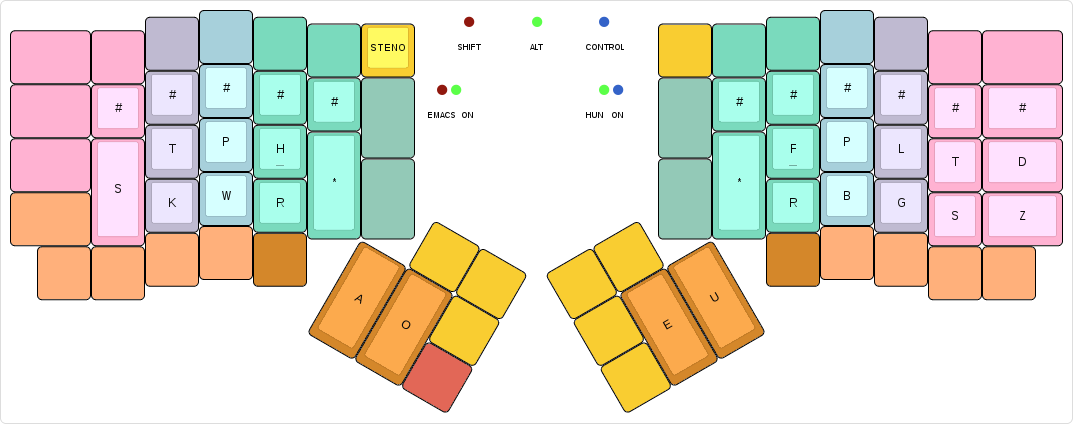
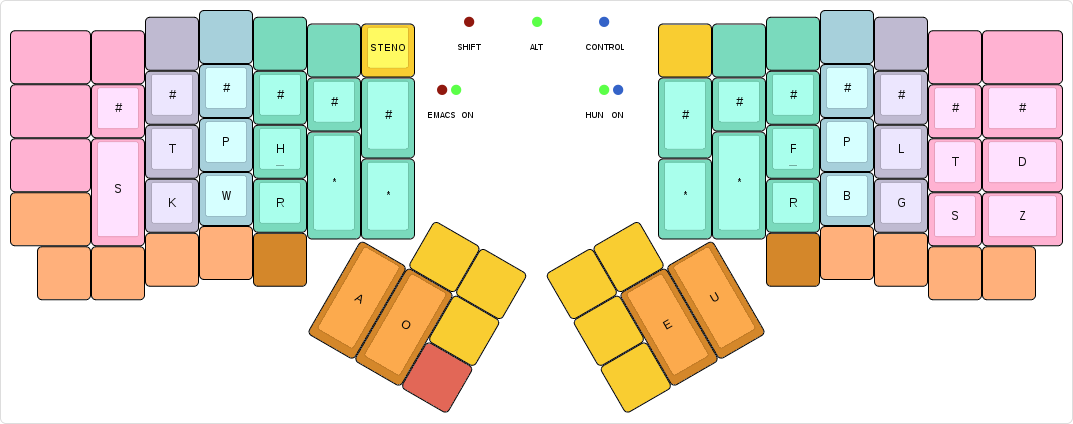
STENO: Add a few more # and * keys
Fixes #43.

Changed region(s): [[0.6151, 0.184, 0.6766, 0.5825], [0.3383, 0.184, 0.3998, 0.5825]]

diff --git a/keymap.c b/keymap.c
@@ -412,10 +412,10 @@ const uint16_t PROGMEM keymaps[][MATRIX_ROWS][MATRIX_COLS] = {
  * ,--------------------------------------------------.           ,--------------------------------------------------.
  * |        |      |      |      |      |      | BASE |           |      |      |      |      |      |      |        |
  * |--------+------+------+------+------+-------------|           |------+------+------+------+------+------+--------|
- * |        |   #  |   #  |   #  |   #  |   #  |      |           |      |  #   |  #   |   #  |   #  |  #   |   #    |
+ * |        |   #  |   #  |   #  |   #  |   #  |   #  |           |  #   |  #   |  #   |   #  |   #  |  #   |   #    |
  * |--------+------+------+------+------+------|      |           |      |------+------+------+------+------+--------|
  * |        |      |   T  |   P  |   H  |      |------|           |------|      |  F   |   P  |   L  |  T   |   D    |
- * |--------+   S  +------+------+------+   *  |      |           |      |  *   +------+------+------+------+--------|
+ * |--------+   S  +------+------+------+   *  |   *  |           |  *   |  *   +------+------+------+------+--------|
  * |        |      |   K  |   W  |   R  |      |      |           |      |      |  R   |   B  |   G  |  S   |   Z    |
  * `--------+------+------+------+------+-------------'           `-------------+------+------+------+------+--------'
  *   |      |      |      |      |      |                                       |      |      |      |      |      |
@@ -432,9 +432,9 @@ const uint16_t PROGMEM keymaps[][MATRIX_ROWS][MATRIX_COLS] = {
 [PLVR] = KEYMAP(
 // left hand
 KC_NO,  KC_NO,  KC_NO,  KC_NO,   KC_NO,  KC_NO,   M(A_PLVR),
-KC_NO,  PV_NUM, PV_NUM, PV_NUM,  PV_NUM, PV_NUM,  KC_NO,
+KC_NO,  PV_NUM, PV_NUM, PV_NUM,  PV_NUM, PV_NUM,  PV_NUM,
 KC_NO,  PV_LS,  PV_LT,  PV_LP,   PV_LH,  PV_STAR,
-KC_NO,  PV_LS,  PV_LK,  PV_LW,   PV_LR,  PV_STAR, KC_NO,
+KC_NO,  PV_LS,  PV_LK,  PV_LW,   PV_LR,  PV_STAR, PV_STAR,
 KC_NO,  KC_NO,  KC_NO,  KC_NO,   KC_NO,
                                            KC_NO, KC_NO,
                                            KC_NO,
@@ -442,10 +442,10 @@ KC_NO,  KC_NO,  KC_NO,  KC_NO,   KC_NO,
 
                                                  // right hand
                                                  KC_NO,   KC_NO,   KC_NO,   KC_NO,   KC_NO,   KC_NO,   KC_NO,
-                                                 KC_NO,   PV_NUM,  PV_NUM,  PV_NUM,  PV_NUM,  PV_NUM,  PV_NUM,
+                                                 PV_NUM,  PV_NUM,  PV_NUM,  PV_NUM,  PV_NUM,  PV_NUM,  PV_NUM,
                                                           PV_STAR, PV_RF,   PV_RP,   PV_RL,   PV_RT,   PV_RD,
-                                                 KC_NO,   PV_STAR, PV_RR,   PV_RB,   PV_RG,   PV_RS,   PV_RZ,
-                                                                   KC_NO,   KC_NO,   KC_NO,   KC_NO, KC_NO,
+                                                 PV_STAR, PV_STAR, PV_RR,   PV_RB,   PV_RG,   PV_RS,   PV_RZ,
+                                                                   KC_NO,   KC_NO,   KC_NO,   KC_NO,   KC_NO,
                                            KC_NO,      KC_NO,
                                            KC_NO,
                                            KC_NO,PV_E, PV_U
